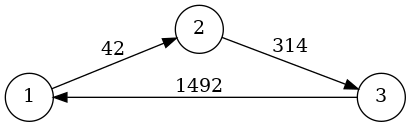
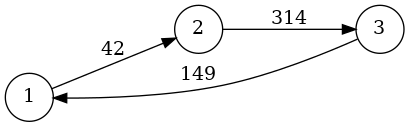
pdoc gen

diff --git a/docs/pygraphblas/matrix.html b/docs/pygraphblas/matrix.html
@@ -211,7 +211,14 @@ class Matrix:
         are computed from the max values of the provides row and
         column indices lists.
 
-        &gt;&gt;&gt; M = Matrix.from_lists([1, 2, 3], [2, 3, 1], [42, 314, 1492])
+        &gt;&gt;&gt; M = Matrix.from_lists([1, 2, 3], [2, 3, 1], [42, 314, 149])
+        &gt;&gt;&gt; print(M)
+              0  1  2  3
+          0|            |  0
+          1|       42   |  1
+          2|         314|  2
+          3|   149      |  3
+              0  1  2  3
         &gt;&gt;&gt; g = draw_graph(M, filename=&#39;/docs/imgs/Matrix_from_lists&#39;)
 
         ![Matrix_from_lists.png](../imgs/Matrix_from_lists.png)
@@ -2121,7 +2128,14 @@ various combinations of calling <code><a title="pygraphblas.matrix.Matrix.mxm" h
         are computed from the max values of the provides row and
         column indices lists.
 
-        &gt;&gt;&gt; M = Matrix.from_lists([1, 2, 3], [2, 3, 1], [42, 314, 1492])
+        &gt;&gt;&gt; M = Matrix.from_lists([1, 2, 3], [2, 3, 1], [42, 314, 149])
+        &gt;&gt;&gt; print(M)
+              0  1  2  3
+          0|            |  0
+          1|       42   |  1
+          2|         314|  2
+          3|   149      |  3
+              0  1  2  3
         &gt;&gt;&gt; g = draw_graph(M, filename=&#39;/docs/imgs/Matrix_from_lists&#39;)
 
         ![Matrix_from_lists.png](../imgs/Matrix_from_lists.png)
@@ -3843,7 +3857,14 @@ indices, and values.
 If nrows or ncols are not provided, they
 are computed from the max values of the provides row and
 column indices lists.</p>
-<pre><code class="language-python-repl">&gt;&gt;&gt; M = Matrix.from_lists([1, 2, 3], [2, 3, 1], [42, 314, 1492])
+<pre><code class="language-python-repl">&gt;&gt;&gt; M = Matrix.from_lists([1, 2, 3], [2, 3, 1], [42, 314, 149])
+&gt;&gt;&gt; print(M)
+      0  1  2  3
+  0|            |  0
+  1|       42   |  1
+  2|         314|  2
+  3|   149      |  3
+      0  1  2  3
 &gt;&gt;&gt; g = draw_graph(M, filename='/docs/imgs/Matrix_from_lists')
 </code></pre>
 <p><img alt="Matrix_from_lists.png" src="../imgs/Matrix_from_lists.png"></p></div>
@@ -3858,7 +3879,14 @@ def from_lists(cls, I, J, V, nrows=None, ncols=None, typ=None):
     are computed from the max values of the provides row and
     column indices lists.
 
-    &gt;&gt;&gt; M = Matrix.from_lists([1, 2, 3], [2, 3, 1], [42, 314, 1492])
+    &gt;&gt;&gt; M = Matrix.from_lists([1, 2, 3], [2, 3, 1], [42, 314, 149])
+    &gt;&gt;&gt; print(M)
+          0  1  2  3
+      0|            |  0
+      1|       42   |  1
+      2|         314|  2
+      3|   149      |  3
+          0  1  2  3
     &gt;&gt;&gt; g = draw_graph(M, filename=&#39;/docs/imgs/Matrix_from_lists&#39;)
 
     ![Matrix_from_lists.png](../imgs/Matrix_from_lists.png)

diff --git a/docs/pygraphblas/index.html b/docs/pygraphblas/index.html
@@ -7953,7 +7953,14 @@ various combinations of calling <code><a title="pygraphblas.Matrix.mxm" href="#p
         are computed from the max values of the provides row and
         column indices lists.
 
-        &gt;&gt;&gt; M = Matrix.from_lists([1, 2, 3], [2, 3, 1], [42, 314, 1492])
+        &gt;&gt;&gt; M = Matrix.from_lists([1, 2, 3], [2, 3, 1], [42, 314, 149])
+        &gt;&gt;&gt; print(M)
+              0  1  2  3
+          0|            |  0
+          1|       42   |  1
+          2|         314|  2
+          3|   149      |  3
+              0  1  2  3
         &gt;&gt;&gt; g = draw_graph(M, filename=&#39;/docs/imgs/Matrix_from_lists&#39;)
 
         ![Matrix_from_lists.png](../imgs/Matrix_from_lists.png)
@@ -9675,7 +9682,14 @@ indices, and values.
 If nrows or ncols are not provided, they
 are computed from the max values of the provides row and
 column indices lists.</p>
-<pre><code class="language-python-repl">&gt;&gt;&gt; M = Matrix.from_lists([1, 2, 3], [2, 3, 1], [42, 314, 1492])
+<pre><code class="language-python-repl">&gt;&gt;&gt; M = Matrix.from_lists([1, 2, 3], [2, 3, 1], [42, 314, 149])
+&gt;&gt;&gt; print(M)
+      0  1  2  3
+  0|            |  0
+  1|       42   |  1
+  2|         314|  2
+  3|   149      |  3
+      0  1  2  3
 &gt;&gt;&gt; g = draw_graph(M, filename='/docs/imgs/Matrix_from_lists')
 </code></pre>
 <p><img alt="Matrix_from_lists.png" src="../imgs/Matrix_from_lists.png"></p></div>
@@ -9690,7 +9704,14 @@ def from_lists(cls, I, J, V, nrows=None, ncols=None, typ=None):
     are computed from the max values of the provides row and
     column indices lists.
 
-    &gt;&gt;&gt; M = Matrix.from_lists([1, 2, 3], [2, 3, 1], [42, 314, 1492])
+    &gt;&gt;&gt; M = Matrix.from_lists([1, 2, 3], [2, 3, 1], [42, 314, 149])
+    &gt;&gt;&gt; print(M)
+          0  1  2  3
+      0|            |  0
+      1|       42   |  1
+      2|         314|  2
+      3|   149      |  3
+          0  1  2  3
     &gt;&gt;&gt; g = draw_graph(M, filename=&#39;/docs/imgs/Matrix_from_lists&#39;)
 
     ![Matrix_from_lists.png](../imgs/Matrix_from_lists.png)

diff --git a/pygraphblas/matrix.py b/pygraphblas/matrix.py
@@ -179,7 +179,14 @@ class Matrix:
         are computed from the max values of the provides row and
         column indices lists.
 
-        >>> M = Matrix.from_lists([1, 2, 3], [2, 3, 1], [42, 314, 1492])
+        >>> M = Matrix.from_lists([1, 2, 3], [2, 3, 1], [42, 314, 149])
+        >>> print(M)
+              0  1  2  3
+          0|            |  0
+          1|       42   |  1
+          2|         314|  2
+          3|   149      |  3
+              0  1  2  3
         >>> g = draw_graph(M, filename='/docs/imgs/Matrix_from_lists')
 
         ![Matrix_from_lists.png](../imgs/Matrix_from_lists.png)
